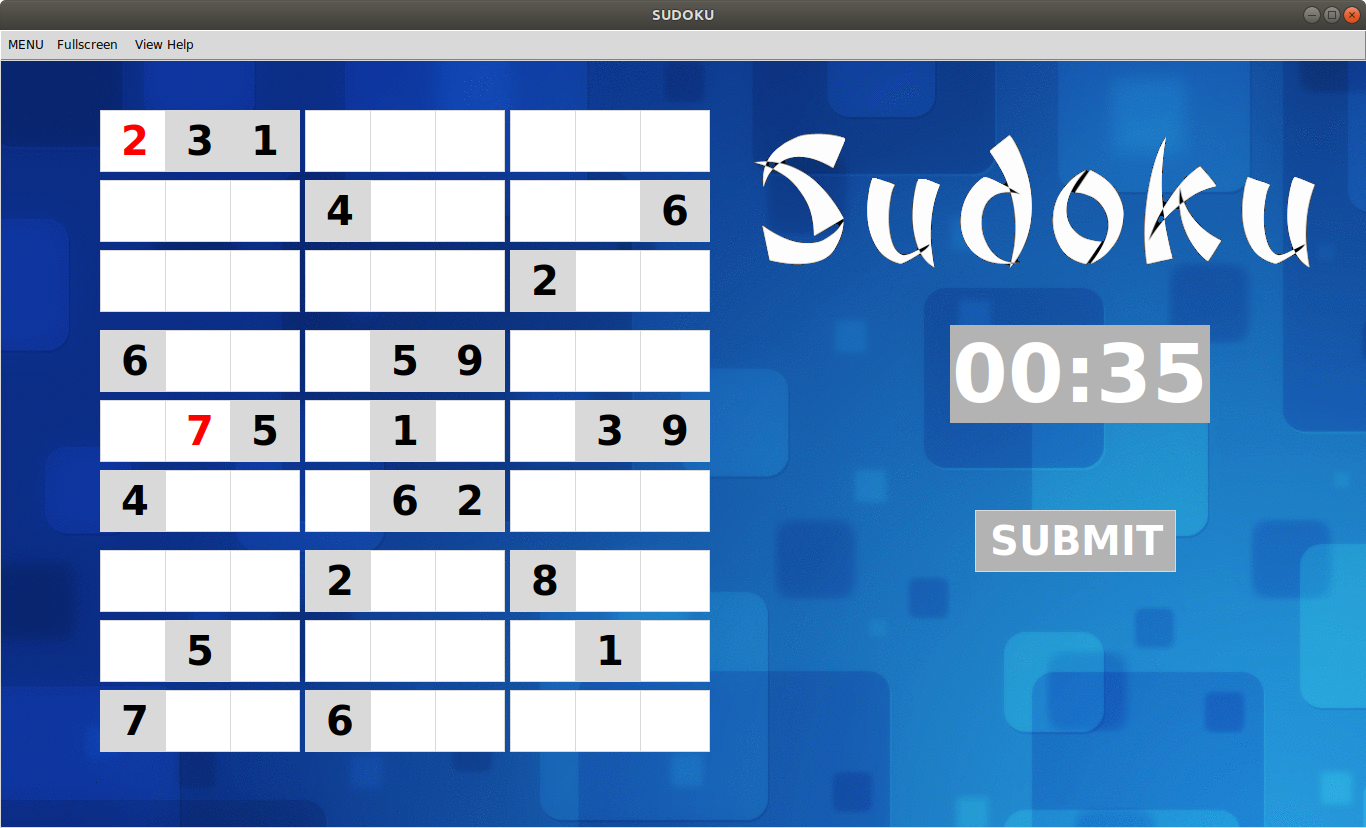
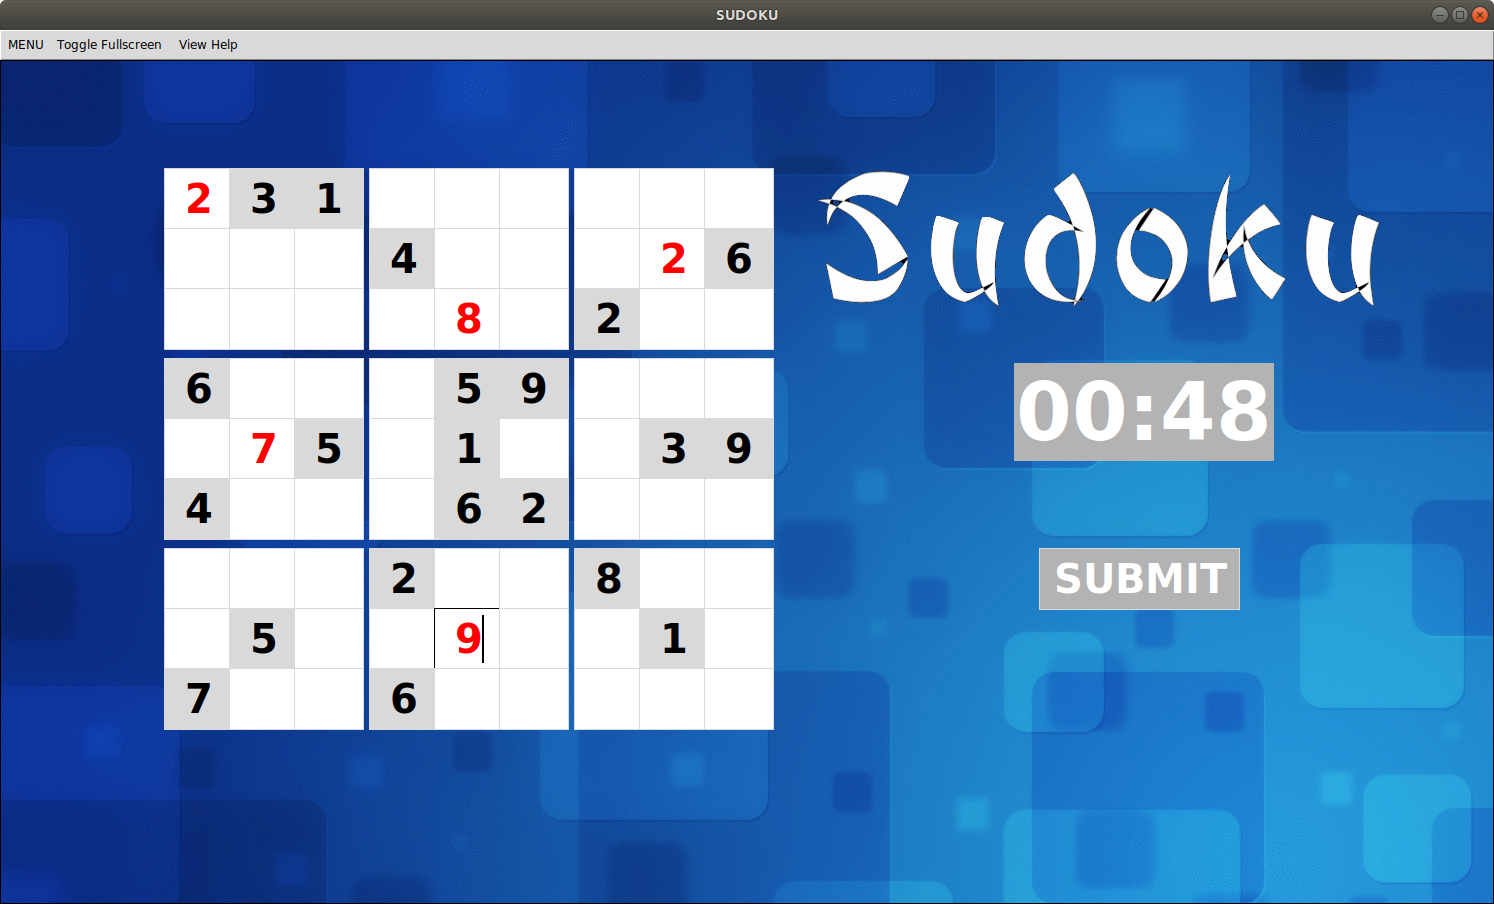
Add layout adjustment to make UI adaptive

diff --git a/Sudoku.py b/Sudoku.py
@@ -99,13 +99,13 @@ class Timer_app():
     '''class for timer widget implementation'''
     def __init__(self,window):
         self.win=window
-        self.box=Label(self.win,text="00:00",font=(basefont,60,basestyle),bg=theme_color2,fg='white',relief="flat")
+        self.box=Label(self.win,text='00:00',font=(basefont,60,basestyle),bg=theme_color2,fg='white',relief='flat')
         self.box.place(x=950,y=265)
         self.count=-1
     def start(self):
         #start timer
         self.count+=1
-        disp=str(self.count/600)+str((self.count%600)/60)+":"+str((self.count%600%60)/10)+str(self.count%600%60%10)
+        disp=str(self.count/600)+str((self.count%600)/60)+':'+str((self.count%600%60)/10)+str(self.count%600%60%10)
         self.box.config(text=disp)
         self.chk=self.win.after(1000,self.start)
     def stop(self):
@@ -124,26 +124,36 @@ class Timer_app():
         #sets time
         self.count=val
         self.start()
+    def place(self, posX, posY):
+	self.box.place(x=posX, y=posY)
 class Grid():
     '''class dealing with sudoku grid as shown on screen'''
-    def __init__(self,root,y_pos=50,x_pos=100):
+    def __init__(self,root):
         #creates blank grid
+	self.root = root
         self.grid_items=[[0 for row in range(9)] for col in range(9)]
-        for row in range(9):
-            x_pos=100
+	for row in range(9):
             for col in range(9):
-                self.grid_items[row][col]=Entry(root,font=('Comic Sans Ms',30,'bold'),fg="red",width=2,disabledforeground="black",borderwidth=5,justify='center',relief='flat')
+                self.grid_items[row][col]=Entry(self.root,font=('Comic Sans Ms',30,'bold'),fg='red',width=2,disabledforeground='black',borderwidth=5,justify='center',relief='flat')
                 self.grid_items[row][col].bind('<FocusOut>',self.__valid)
+	self.place(100, 70)
+  
+    def place(self, originX, originY):
+        y_pos = originY
+	for row in range(9):
+            x_pos=originX
+            for col in range(9):
                 if col==3 or col==6:
                     x_pos+=10
-                self.grid_items[row][col].place(x=65*col+x_pos,y=70*row+y_pos)
+                self.grid_items[row][col].place(x=65*col+x_pos,y=60*row+y_pos)
             if row==2 or row==5:
                 y_pos+=10
+
     def __valid(self,event):
         #checks validity of entered values
             d=event.widget.get()
             if len(d)>1 or d not in ['','1','2','3','4','5','6','7','8','9']:
-                tkMessageBox.showwarning("Invalid Input","Enter a value between 1 and 9")
+                tkMessageBox.showwarning('Invalid Input','Enter a value between 1 and 9')
                 event.widget.delete(0,END)
     def show(self,seq,disp='que'):
         #shows the sudoku string as grid on screen
@@ -195,7 +205,7 @@ class Load():
             fil=open(os.path.join(data_folder, loc), 'rb')
             return fil
         except IOError as e:
-            tkMessageBox.showwarning("Open Directory","Unable to open Directory location: "+loc+"\nEither it doesnt exist or is corrupt."+str(e))
+            tkMessageBox.showwarning('Open Directory','Unable to open Directory location: '+loc+'\nEither it doesnt exist or is corrupt.'+str(e))
             raise
 class Save():
     #create a saving object and save it in data directory
@@ -250,53 +260,64 @@ class Controller(Sudoku,Grid):
     def __init__(self,root):
         #creates main window of programme and its menu
         self.root=root
-        self.base_icon = Image("photo", file = os.path.join(images_folder, base_icon_img))
+	self.full = False
+        self.base_icon = Image('photo', file = os.path.join(images_folder, base_icon_img))
         self.load_conn=Load()
         self.save_conn=Save()
         self.lvl_map={1:8,2:4,3:2}
         root.after(2,self.add_widgets)
-        root.protocol("WM_DELETE_WINDOW", self.s_exit)
+        root.protocol('WM_DELETE_WINDOW', self.s_exit)
         self.Window()
     def Window(self):
         #formats window and loads images
-        root.wm_title("SUDOKU")
+        root.wm_title('SUDOKU')
         root.minsize(width=1366,height=768)
-        #root.maxsize(width=1366,height=768)
         self.root.call('wm', 'iconphoto', self.root._w, self.base_icon)
         self.back=PhotoImage(file = os.path.join(images_folder, base_img))
         self.canv=Canvas(self.root,height=766,width=1366)
-        self.canv.place(x=0,y=0)
+        self.canv.pack(fill = BOTH, expand = 1)
         self.canv.create_image(0,0,image=self.back,anchor='nw')
         self.menubar=Menu(self.root)
         self.root.config(menu=self.menubar)
         self.title=PhotoImage(file = os.path.join(images_folder, 'title.gif'))
-        self.canv.create_image(750,65,image=self.title,anchor='nw')
+        self.canv.create_image(750,65,image=self.title,anchor='nw',tag='titleBanner')
     def add_widgets(self):
         #adds the required widgets to window
-        self.grid=Grid(self.root)
-        self.timer=Timer_app(self.root)
-        Button(self.root,text='SUBMIT',relief='flat',font=(basefont,30,basestyle),fg='white',bg=theme_color2,command=self.check).place(x=975,y=450)
+        self.grid = Grid(self.canv)
+        self.timer=Timer_app(self.canv)
+        self.submit = Button(self.canv,text='SUBMIT',relief='flat',font=(basefont,30,basestyle),fg='white',bg=theme_color2,command=self.check)
+	self.submit.place(x=975,y=450)
         filemenu=Menu(self.menubar,tearoff=0)
-        filemenu.add_command(label="New",command=self.new)
-        filemenu.add_command(label="Restart",command=self.restart)
-        filemenu.add_command(label="Load",command=self.loader)
-        filemenu.add_command(label="Save",command=self.save)
-        filemenu.add_command(label="Solution",command=self.solv)
+        filemenu.add_command(label='New',command=self.new)
+        filemenu.add_command(label='Restart',command=self.restart)
+        filemenu.add_command(label='Load',command=self.loader)
+        filemenu.add_command(label='Save',command=self.save)
+        filemenu.add_command(label='Solution',command=self.solv)
         filemenu.add_separator()
-        filemenu.add_command(label="Exit",command=self.s_exit)
-        self.menubar.add_cascade(label="MENU",menu=filemenu)
-        self.menubar.add_command(label="Fullscreen",command=self.fullscreen)
-        self.menubar.add_command(label=" View Help",command=self.help_d)
+        filemenu.add_command(label='Exit',command=self.s_exit)
+        self.menubar.add_cascade(label='MENU',menu=filemenu)
+        self.menubar.add_command(label='Toggle Fullscreen',command=self.fullscreen)
+        self.menubar.add_command(label=' View Help',command=self.help_d)
         self.root.bind('<F5>',self.help_d)
         self.root.bind('<Escape>',self.s_exit)
+	self.canv.bind('<Configure>', self.resize)
+    def resize(self, event):
+        w , h = event.width , event.height
+        if(w > 1200):              #condition to filter required event
+                x, y = (w-1366)/2, (h-768)*1/2
+		self.grid.place(x+100,y+70)
+		self.timer.place(x+950,y+265)
+		self.submit.place(x=x+975,y=y+450)
+		self.canv.coords("titleBanner",x+750,y+65)
     def s_exit(self,event=None):
         #safe exit func
-        if not tkMessageBox.askyesno("Exit","Do you want to quit without saving ?"):
+        if not tkMessageBox.askyesno('Exit','Do you want to quit without saving ?'):
             return None
         self.root.destroy()
     def fullscreen(self):
-        #fullscreen func
-        self.root.wm_attributes("-fullscreen",True)
+        # fullscreen function
+	self.full = not self.full
+        self.root.wm_attributes('-fullscreen',self.full)
     def help_d(self,event=None):
         #shows help document
         try:
@@ -339,9 +360,9 @@ class Controller(Sudoku,Grid):
         self.lvl = IntVar()
         self.master=Toplevel(bg=theme_color)
         self.root.call('wm', 'iconphoto', self.master._w, self.base_icon)
-        Radiobutton(self.master, text="Easy   ",fg='green',bg=theme_color,offrelief='flat',variable=self.lvl,indicatoron=0,font=fontu,value=1,command=self.create).pack(anchor=W)
-        Radiobutton(self.master, text="Medium",fg='yellow',bg=theme_color,offrelief='flat',variable=self.lvl,indicatoron=0,font=fontu,value=2,command=self.create).pack(anchor=W)
-        Radiobutton(self.master, text="Hard   ",fg='red3',bg=theme_color,offrelief='flat',variable=self.lvl,indicatoron=0,font=fontu,value=3,command=self.create).pack(anchor=W)
+        Radiobutton(self.master, text='Easy   ',fg='green',bg=theme_color,offrelief='flat',variable=self.lvl,indicatoron=0,font=fontu,value=1,command=self.create).pack(anchor=W)
+        Radiobutton(self.master, text='Medium',fg='yellow',bg=theme_color,offrelief='flat',variable=self.lvl,indicatoron=0,font=fontu,value=2,command=self.create).pack(anchor=W)
+        Radiobutton(self.master, text='Hard   ',fg='red3',bg=theme_color,offrelief='flat',variable=self.lvl,indicatoron=0,font=fontu,value=3,command=self.create).pack(anchor=W)
     def create(self):
         #adjusts sudoku as per level and display
         hint_no=self.lvl_map[self.lvl.get()]
@@ -375,7 +396,7 @@ class Controller(Sudoku,Grid):
            self.saved=fil.readlines()
            for i in self.saved:
                self.load_opt.insert(END,i[:-1])
-           Button(self.load_win, bg = theme_color, relief = 'flat', text = "LOAD", font = (basefont, 30, basestyle), command = self.load, fg = 'purple4').pack()
+           Button(self.load_win, bg = theme_color, relief = 'flat', text = 'LOAD', font = (basefont, 30, basestyle), command = self.load, fg = 'purple4').pack()
            fil.close()
        except:
             pass
